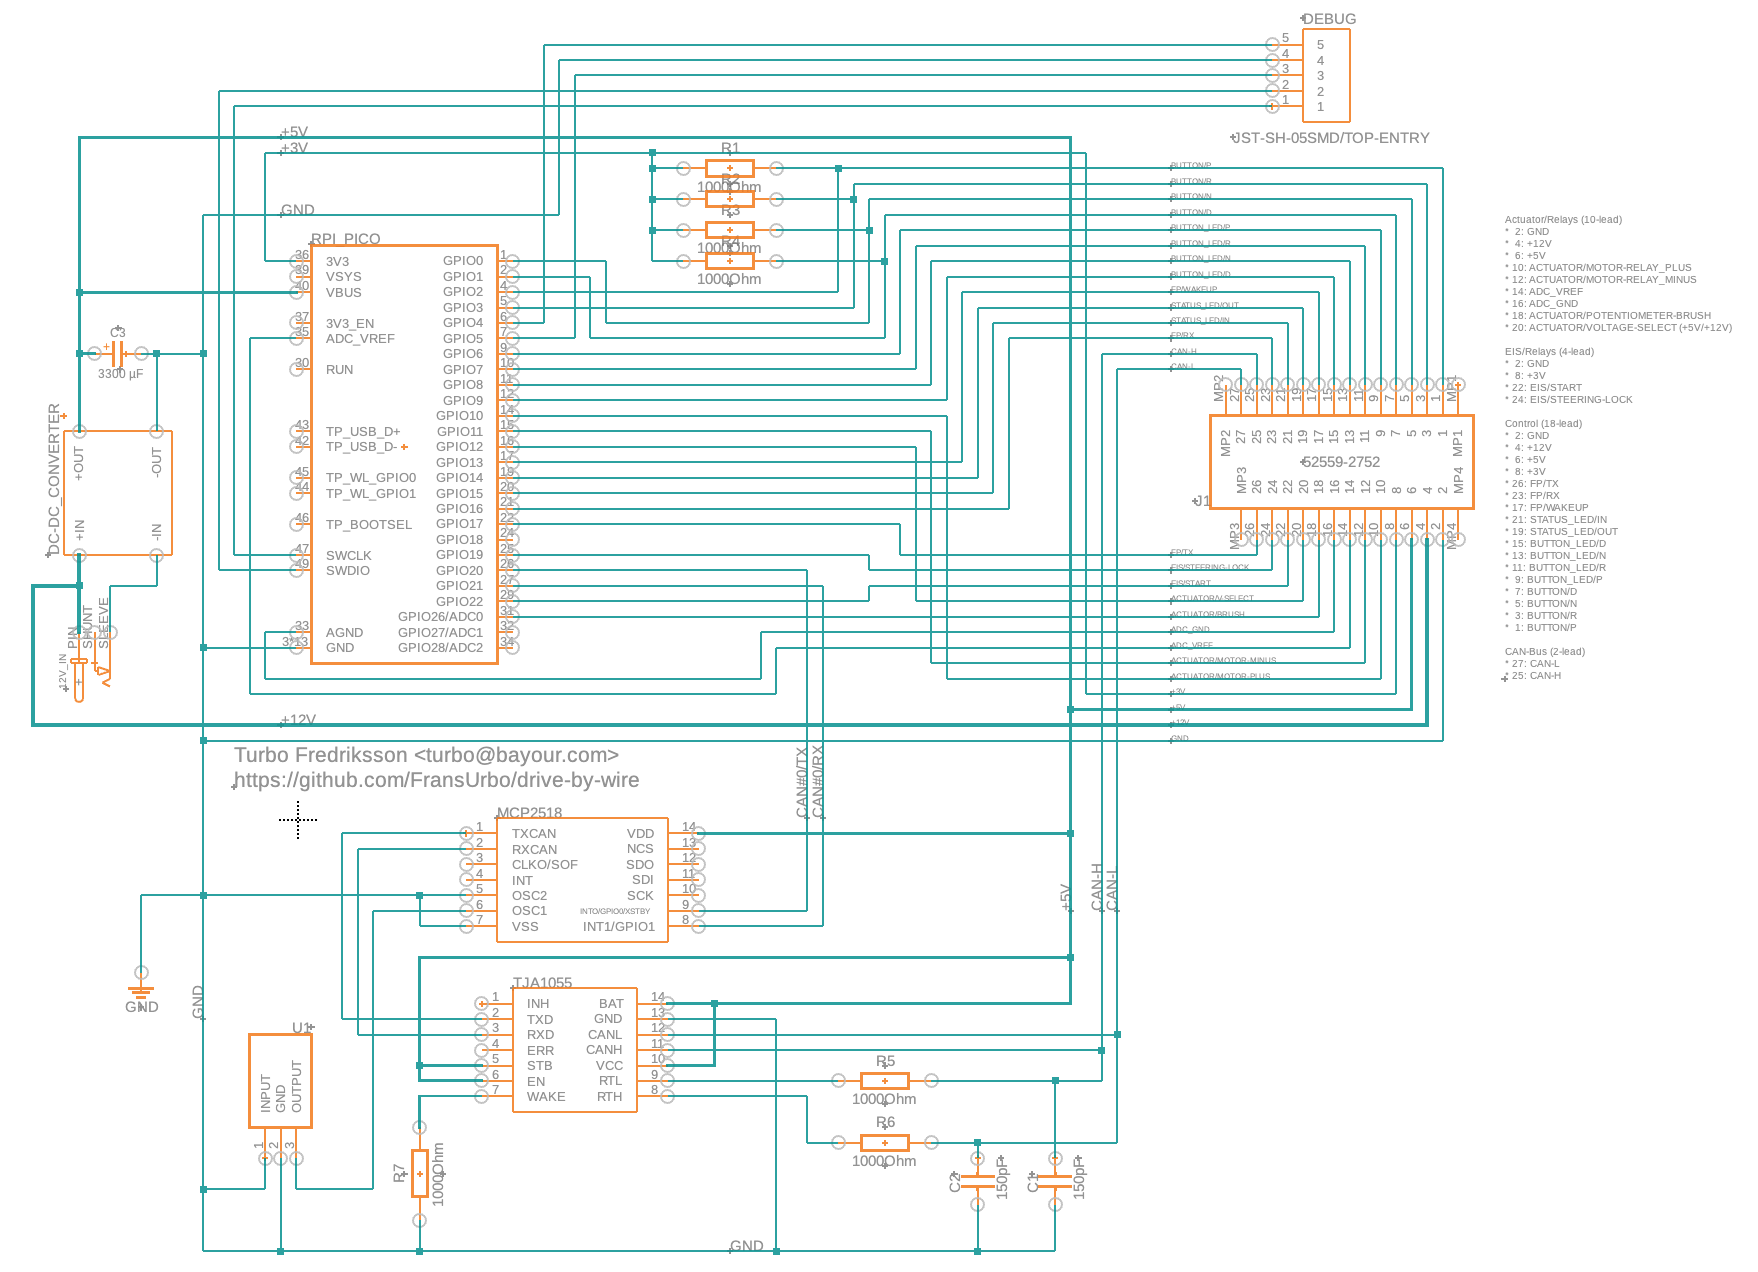
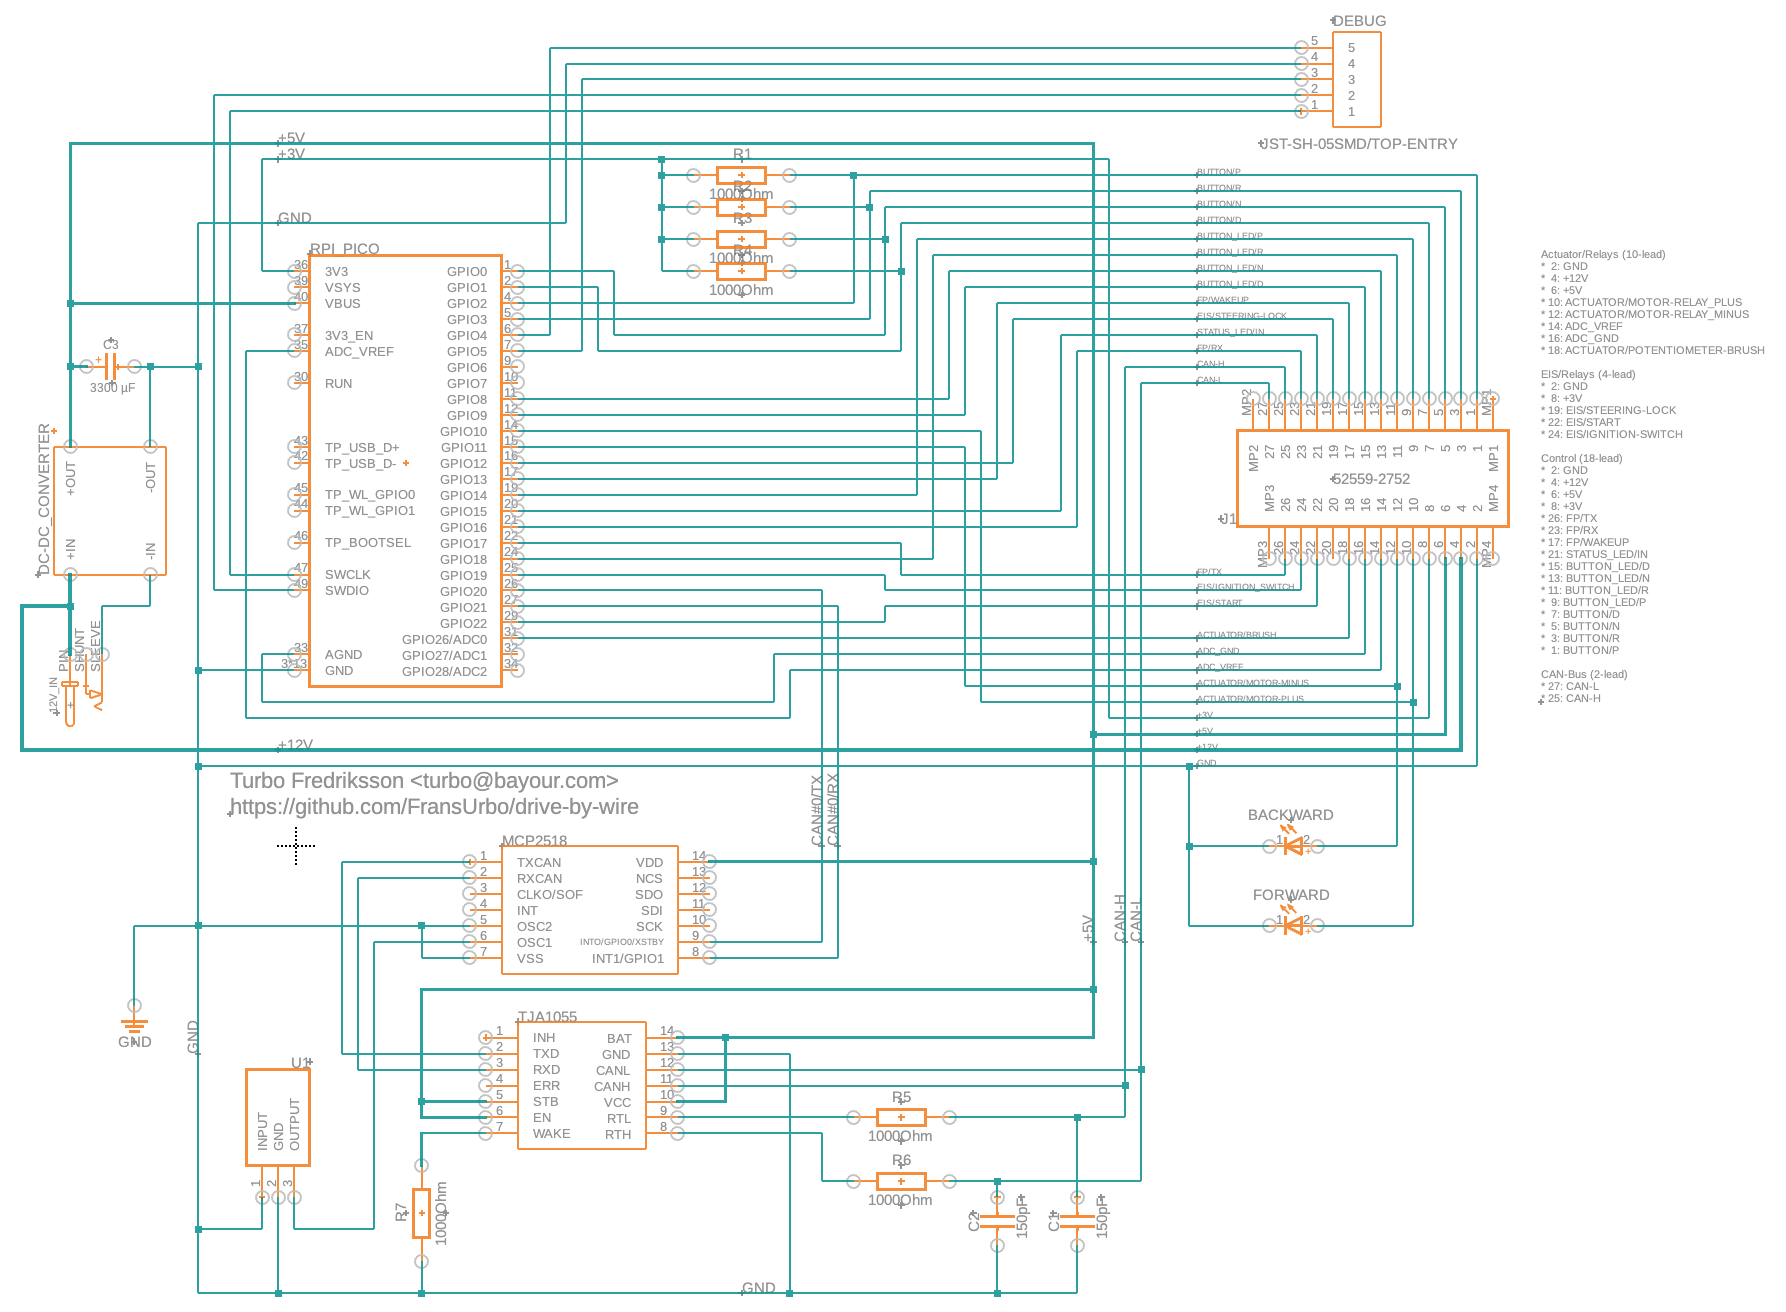
Clear the I2C pins for a UPS Module.
* It uses GPIO#6/PIN#9 (SDA) and GPIO#7/PIN#10 (SCL) to communicate with
  the RPi. So we have to some move on the connectors:
    * Button/Telltale - P (GPIO#6/PIN#9)  -> GPIO#14/PIN#19.
    * Button/Telltale - R (GPIO#7/PIN#10) -> GPIO#18/PIN#24.
* The EIS/Steering lock was coded onto the wrong pin, it should be GPIO#9/PIN#12.

+ Add the (temporary) EIS Relay LEDs I have in my devel setup.
+ Try to use `<div>` to set the width of the table. Not sure if
  GH allows it, but we'll see.
+ Update the circuit diagram image.

Changed region(s): [[0.0, 0.0, 0.9829, 1.0], [0.7065, 0.6132, 0.7372, 0.7358], [0.0922, 0.6745, 0.1229, 0.7358]]

diff --git a/code/src/drive-by-wire.rs b/code/src/drive-by-wire.rs
@@ -101,8 +101,8 @@ async fn main(spawner: Spawner) {
 
     // =====
     //  6. Initialize the MOSFET relays.
-    let mut eis_steering_lock = Output::new(p.PIN_18, Level::Low); // EIS/steering lock
-    let mut eis_start = Output::new(p.PIN_22, Level::Low); // EIS/start
+    let mut eis_steering_lock = Output::new(p.PIN_19, Level::Low); // EIS/Steering lock (GREEN)
+    let mut eis_start = Output::new(p.PIN_22, Level::Low); // EIS/Start (YELLOW)
     info!("EIS relays initialized");
     CHANNEL_CANWRITE.send(CANMessage::RelaysInitialized).await;
 
@@ -212,7 +212,7 @@ async fn main(spawner: Spawner) {
             fp_scanner,
             Button::P,
             p.PIN_2.into(),
-            p.PIN_6.into(),
+            p.PIN_14.into(),
         )
         .unwrap(),
     ); // button/P
@@ -223,7 +223,7 @@ async fn main(spawner: Spawner) {
             fp_scanner,
             Button::R,
             p.PIN_3.into(),
-            p.PIN_7.into(),
+            p.PIN_18.into(),
         )
         .unwrap(),
     ); // button/R

diff --git a/README.md b/README.md
@@ -43,6 +43,7 @@ This is to introduce drive-by-wire buttons for Mercedes-Benz. Specifically, it i
      - [Relays](#relays)
      - [Status LED](#status-led)
 5. [Updates](#updates)
+   - [Update Sun 9 Jan 2026](#update-sun-9-may-2026)
    - [Update Sun 4 Jan 2026](#update-sun-2-may-2026)
    - [Update Sun 2 May 2024](#update-sun-2-may-2024)
    - [Update Sun 3 May 2024](#update-sun-3-may-2024)
@@ -155,7 +156,7 @@ Q: Can DriveByWire check CAN for certain buttons around the car
 
 # Pin layout for RaspberryPI 3-5, and Pico
 
-| Pin | Port    | Use                          | Pin | Port         | Use
+| <div style="width:25px">Pin</div> | <div style="width:75px">Port</div> | <div style="width:280px">Use</div> | <div style="width:25px">Pin</div> | <div style="width:75px">Port</div> | <div style="width:280px">Use</div>
 | --: | :------ | :--------------------------- | --: | :----------- | :----------------------------- |
 |   1 | GPIO  0 | Button (Switch - N)          | 40  | VBUS         |                                |
 |   2 | GPIO  1 | Button (Switch - D)          | 39  | VSYS         |                                |
@@ -163,19 +164,19 @@ Q: Can DriveByWire check CAN for certain buttons around the car
 |   4 | GPIO  2 | Button (Switch - P)          | 37  | 3V3_EN       |                                |
 |   5 | GPIO  3 | Button (Switch - R)          | 36  | 3V3_OUT      |                                |
 |   6 | GPIO  4 | Debug (TX)                   | 35  | ADC_VREF     | Actuator - +5V                 |
-|   7 | GPIO  5 | Debug (RX)                   | 34  | GPIO 28<br>ADC2  |                                |
-|   8 | GND     |                              | 33  | GND<br>AGND     | Actuator - GND                 |
-|   9 | GPIO  6 | Button (Telltale - P)        | 32  | GPIO 27<br>ADC1 |                                |
-|  10 | GPIO  7 | Button (Telltale - R)        | 31  | GPIO 26<br>ADC0 | Actuator - Potentiometer Brush |
+|   7 | GPIO  5 | Debug (RX)                   | 34  | GPIO 28<br>ADC2 |                             |
+|   8 | GND     |                              | 33  | GND<br>AGND     | Actuator - GND              |
+|   9 | GPIO  6 | Power monitor (SDA)          | 32  | GPIO 27<br>ADC1 |                             |
+|  10 | GPIO  7 | Power monitor (SCL)          | 31  | GPIO 26<br>ADC0 | Actuator - Potentiometer Brush |
 |  11 | GPIO  8 | Button (Telltale - N)        | 30  | RUN          |                                |
-|  12 | GPIO  9 | Button (Telltale - D)        | 29  | GPIO 22      | EIS Relay (#3 - start)         |
+|  12 | GPIO  9 | Button (Telltale - D)        | 29  | GPIO 22      | EIS Relay (#3 - start) (YELLOW)|
 |  13 | GND     | *[GPIO 29]*                  | 28  | GND          | *[GPIO 23]*                    |
 |  14 | GPIO 10 | Actuator - Motor Relay (#1)  | 27  | GPIO 21      | CAN #0 (RX)                    |
 |  15 | GPIO 11 | Actuator - Motor Relay (#2)  | 26  | GPIO 20      | CAN #0 (TX)                    |
-|  16 | GPIO 12 | Actuator - +5V/+12V select   | 25  | GPIO 19      | EIS Relay (#1 - steering lock) |
-|  17 | GPIO 13 | Fingerprint Scanner (WAKEUP) | 24  | GPIO 18      |                                |
+|  16 | GPIO 12 | Actuator - +5V/+12V select   | 25  | GPIO 19      | EIS Relay (#1 - steering lock) (GREEN) |
+|  17 | GPIO 13 | Fingerprint Scanner (WAKEUP) | 24  | GPIO 18      | Button (Telltale - R)          |
 |  18 | GND     | *[GPIO 25]*                  | 23  | GND          | *[GPIO 24]*                    |
-|  19 | GPIO 14 | ~~Status LED (Data OUT)~~        | 22  | GPIO 17      | Fingerprint Scanner (TX)       |
+|  19 | GPIO 14 | Button (Telltale - P)        | 22  | GPIO 17      | Fingerprint Scanner (TX)       |
 |  20 | GPIO 15 | Status LED (Data IN)         | 21  | GPIO 16      | Fingerprint Scanner (RX)       |
 
 LED | GPIO 25
@@ -586,6 +587,12 @@ The steady orange (well, it's not very orange, is it!?? :) and then green LED in
 it and the aura around the fingerprint scanner turns red.
 
 # Updates
+
+## Update Fri 9 Jan 2026
+
+Move some pins around. Need to clear Pin 9 and 10 (GPIO 6 and 7) for my new UPS module. Realised, that it's
+probably a good idea to keep the controller running for .. say a minute after turning the ignition off (which
+would cut power to the controller).
 
 ## Update Sun 4 Jan 2026
 
